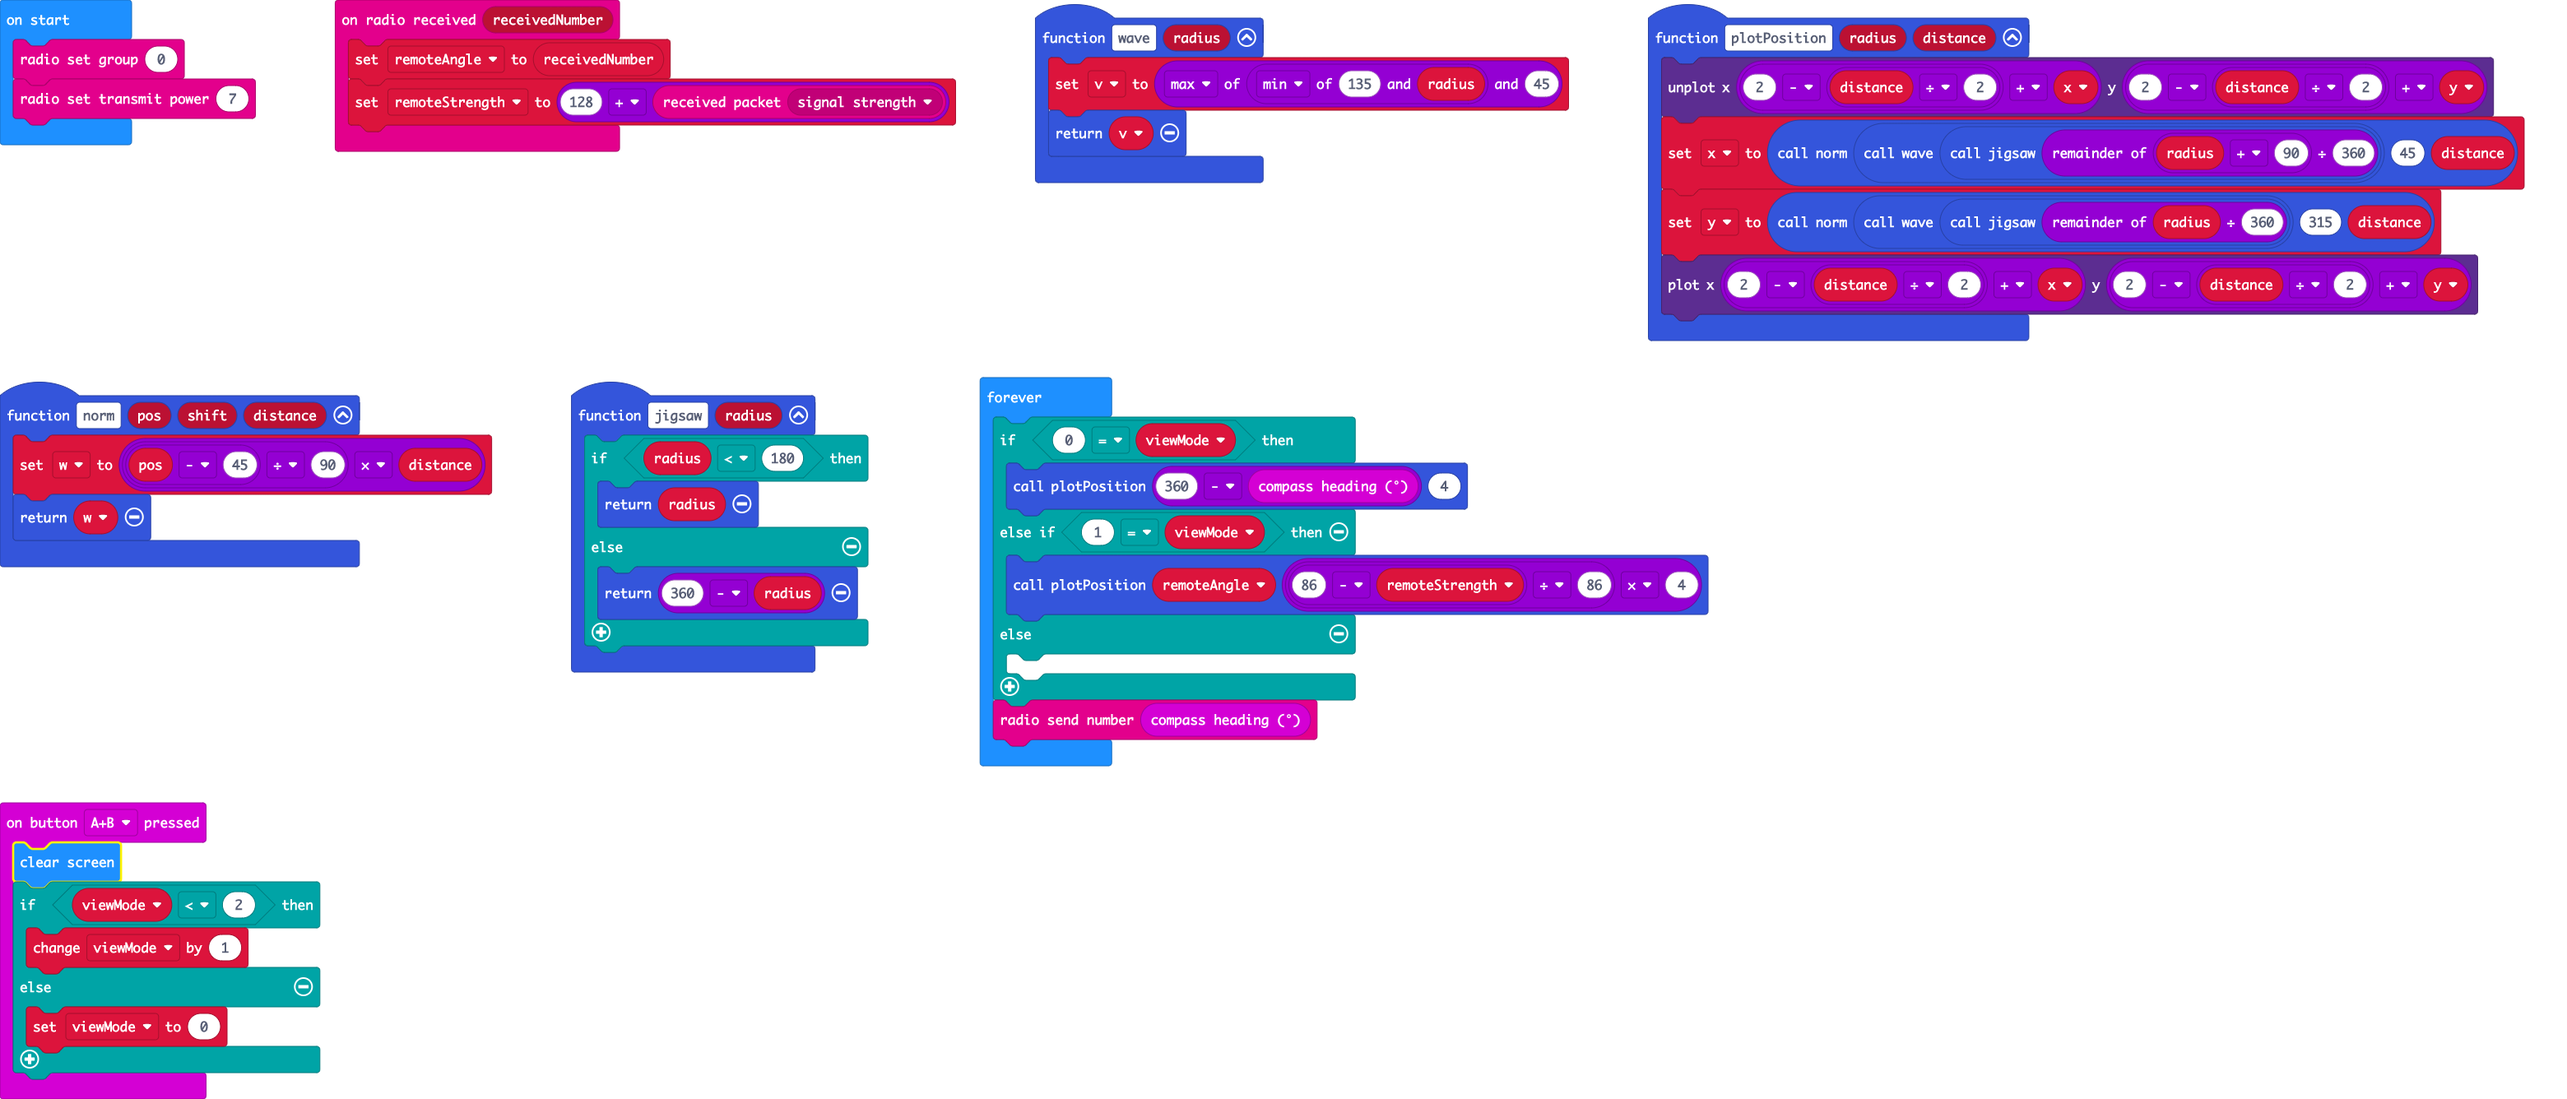
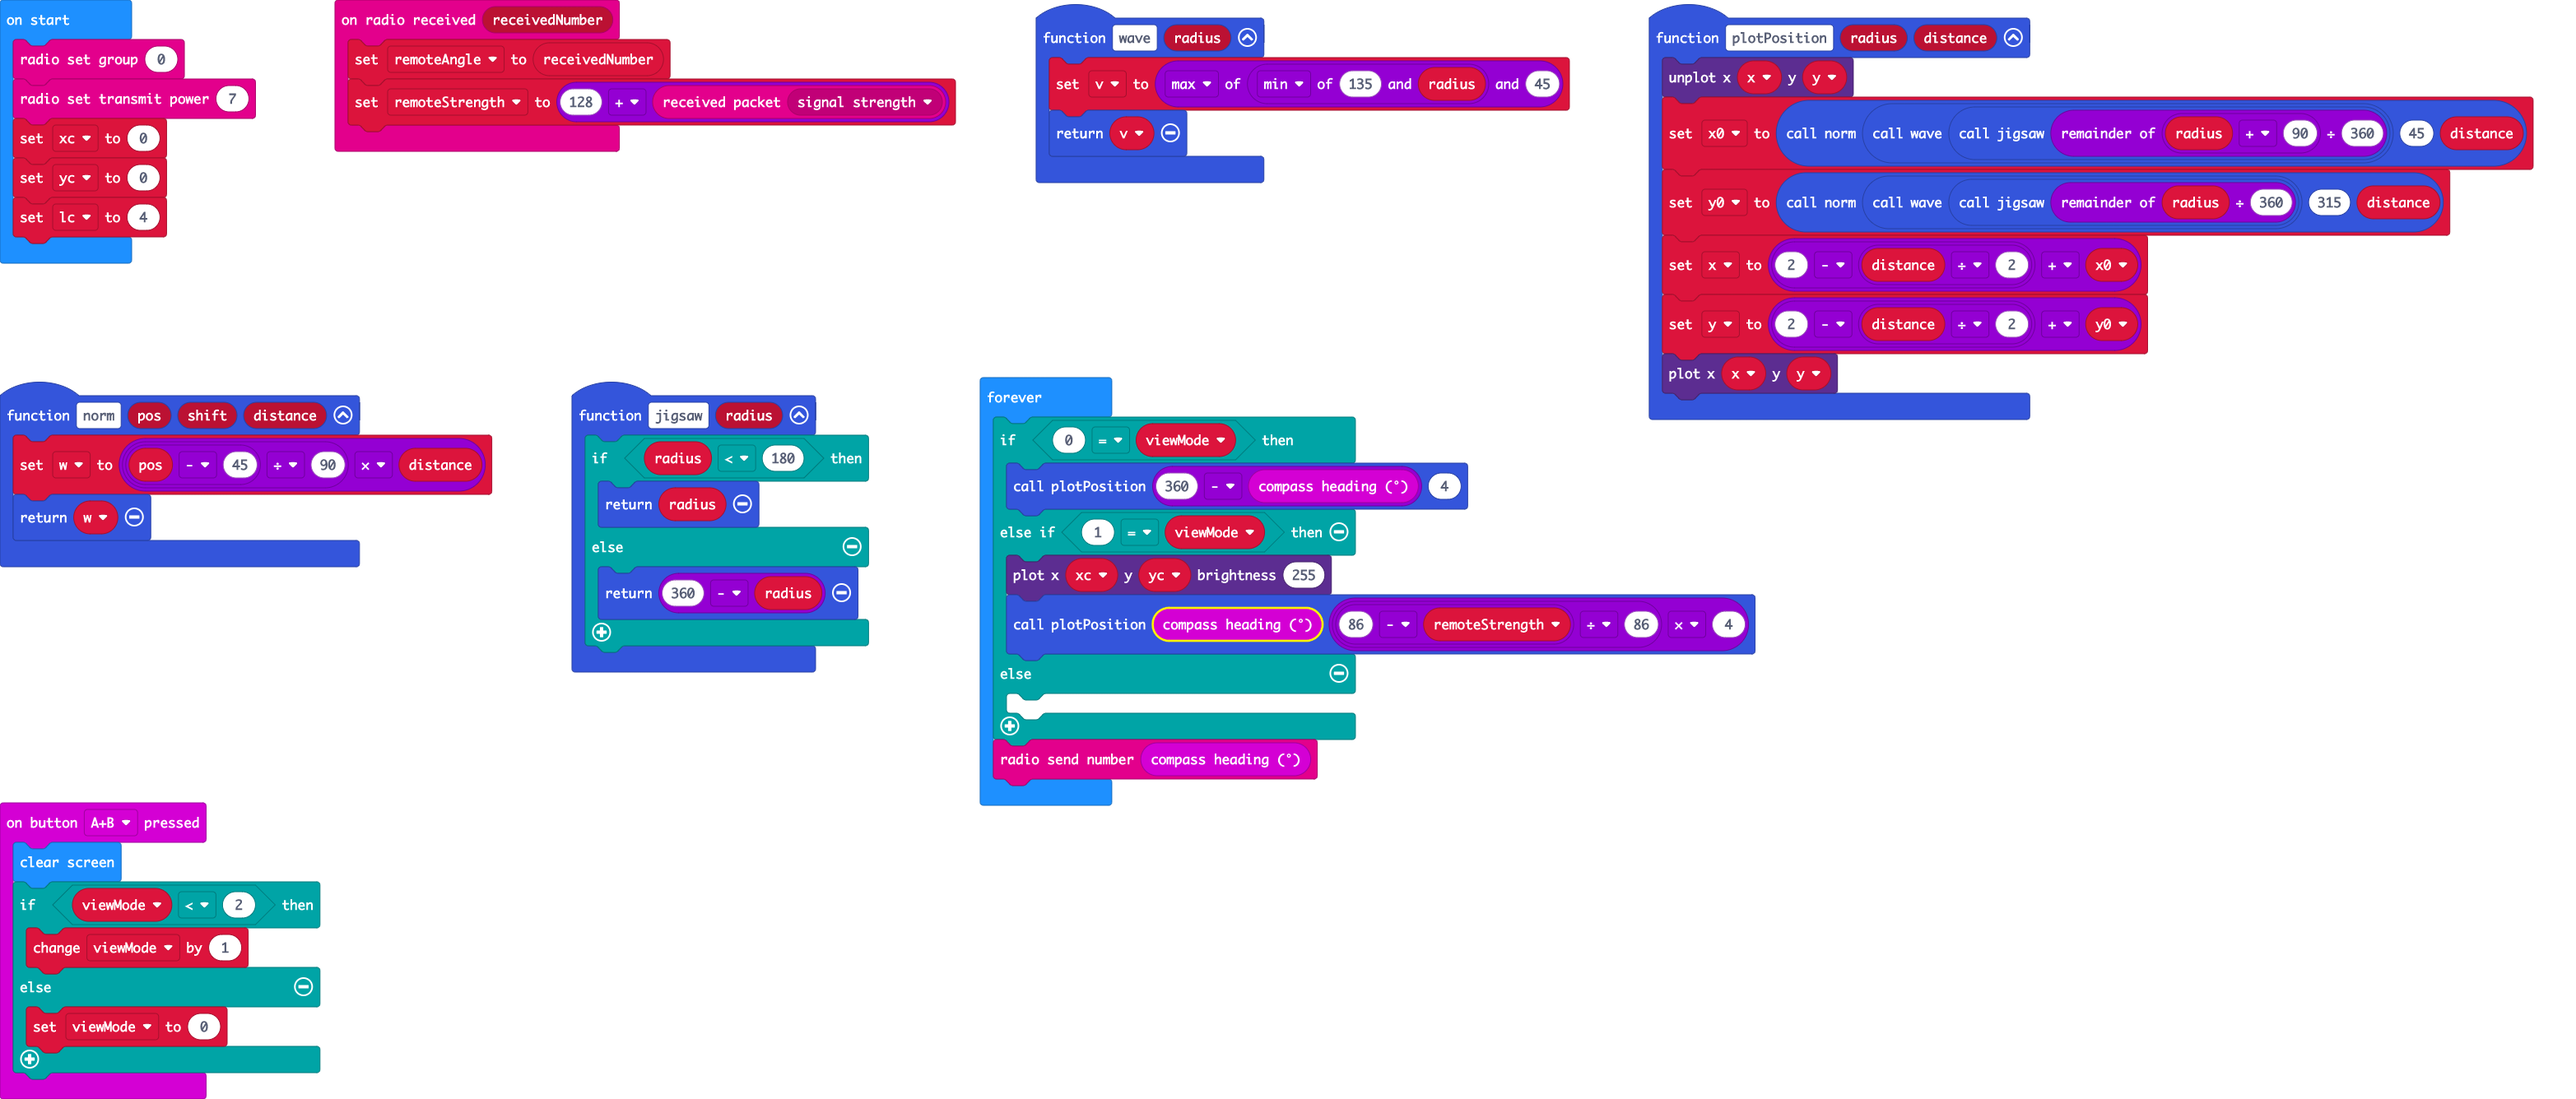
9x9 screen

diff --git a/main.ts b/main.ts
@@ -8,10 +8,10 @@ function wave (radius: number) {
 }
 function plotPosition (radius: number, distance: number) {
     led.unplot(x, y)
-    let x0 = norm(wave(jigsaw((radius + 90) % 360)), 45, distance)
-    let y0 = norm(wave(jigsaw(radius % 360)), 315, distance)
-    x = 2 - distance / 2 + x0
-    y = 2 - distance / 2 + y0
+    x0 = norm(wave(jigsaw((radius + 90) % 360)), 45, distance)
+    y0 = norm(wave(jigsaw(radius % 360)), 315, distance)
+    x = xc - distance / 2 + x0
+    y = yc - distance / 2 + y0
     led.plot(x, y)
 }
 function norm (pos: number, shift: number, distance: number) {
@@ -33,8 +33,10 @@ function jigsaw (radius: number) {
         return 360 - radius
     }
 }
-let viewMode = 0
+let viewMode = 1
 let w = 0
+let y0 = 0
+let x0 = 0
 let y = 0
 let x = 0
 let v = 0
@@ -42,11 +44,15 @@ let remoteStrength = 0
 let remoteAngle = 0
 radio.setGroup(0)
 radio.setTransmitPower(7)
+let xc = 0
+let yc = 0
+let lc = 8
 basic.forever(function () {
     if (0 == viewMode) {
         plotPosition(360 - input.compassHeading(), 4)
     } else if (1 == viewMode) {
-        plotPosition(remoteAngle, (86 - remoteStrength) / 86 * 4)
+        led.plotBrightness(xc, yc, 50)
+        plotPosition(360+remoteAngle-input.compassHeading(), (86 - remoteStrength) / 86 * lc)
     } else {
     	
     }
